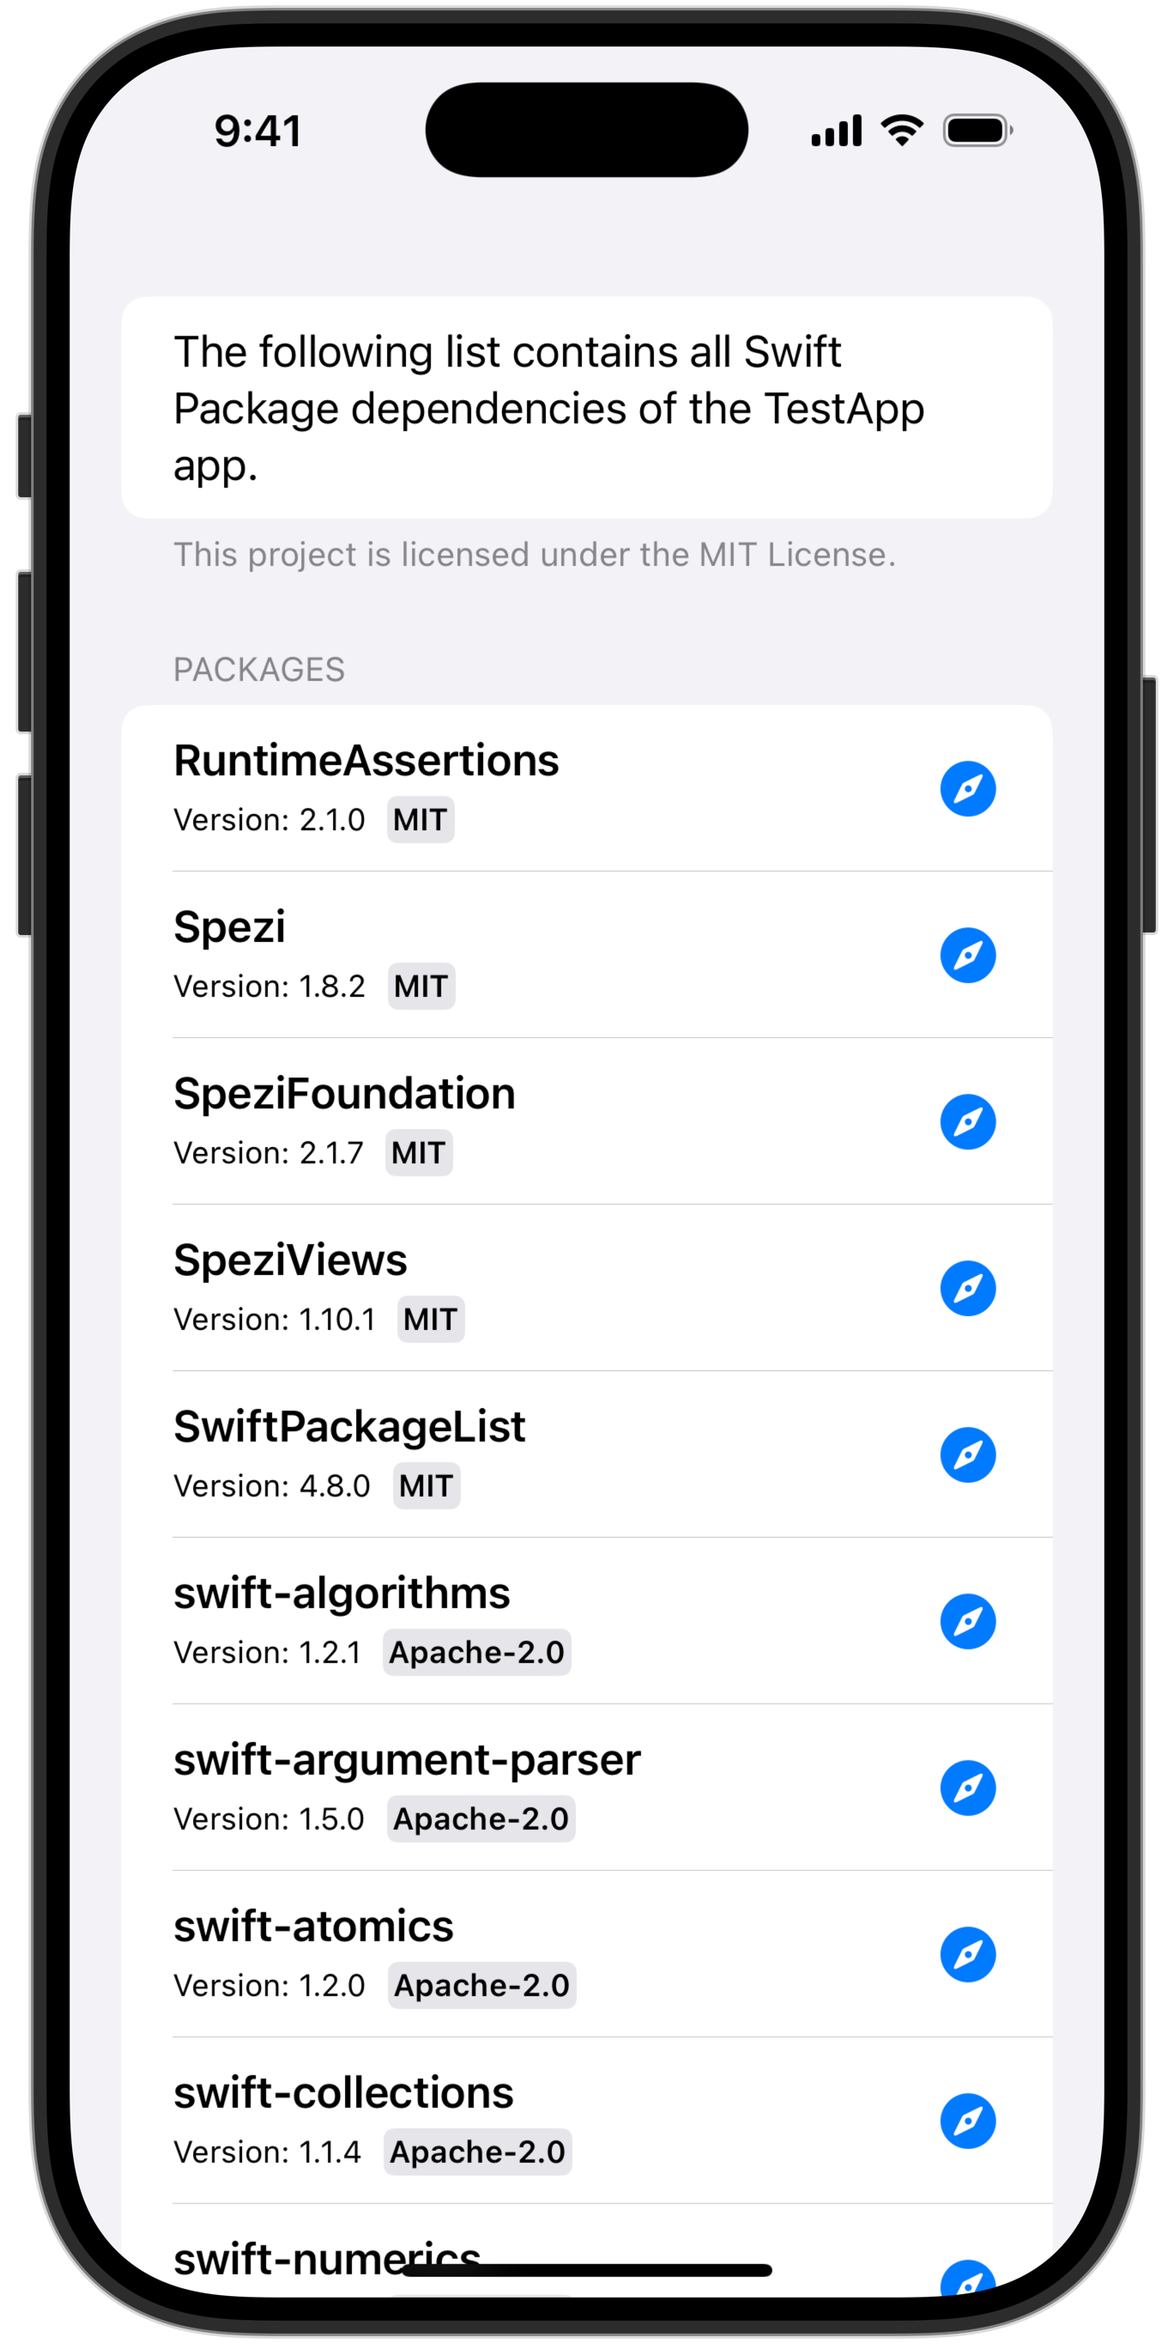
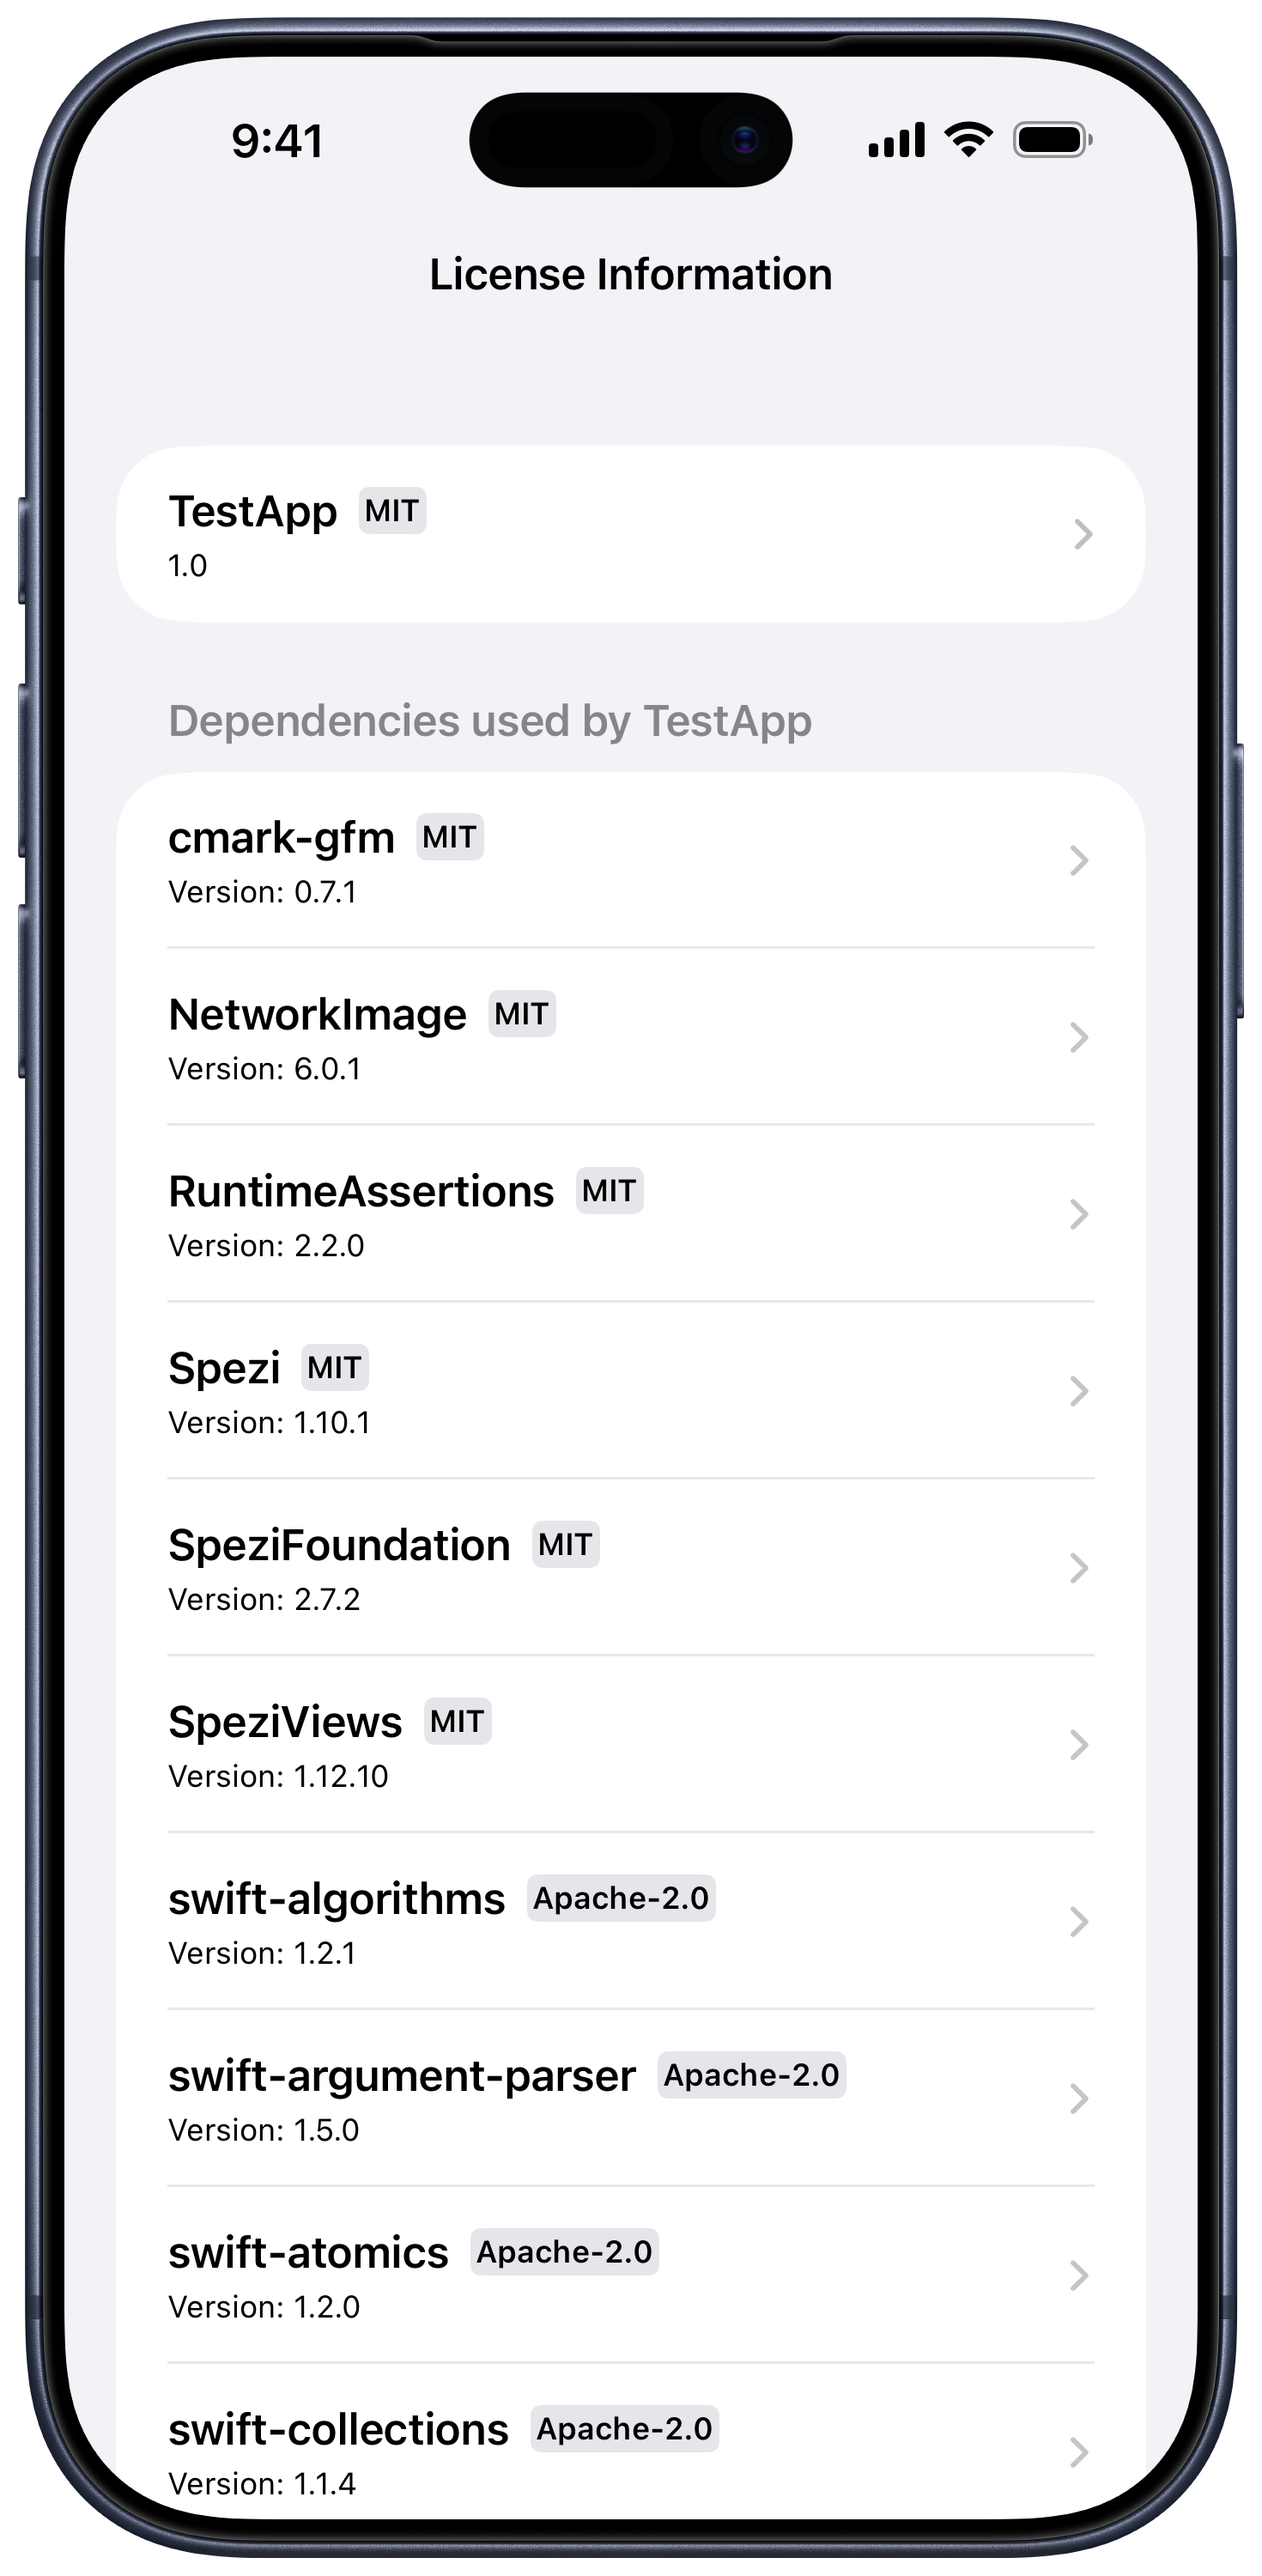
x

diff --git a/Sources/SpeziLicense/Views/PackageCell.swift b/Sources/SpeziLicense/Views/PackageCell.swift
@@ -12,7 +12,7 @@ import SwiftUI
 
 
 struct PackageCell: View {
-    struct Config {
+    struct Config: Hashable {
         let name: String
         let versionString: String?
         let url: URL?
@@ -23,6 +23,9 @@ struct PackageCell: View {
     private let config: Config
     
     var body: some View {
+        // - if we have the package's license text: the cell is a NavigationLink that shows the license text, and has a button to open the package's web site
+        // - if we don't have the text: the cell is a button that directly opens the web site
+        // - if we have neither the license text, nor the url: the cell is a button that does nothing.
         if let licenseText = config.licenseText {
             NavigationLink {
                 licenseView(licenseText)
@@ -30,12 +33,13 @@ struct PackageCell: View {
                 rowContent
             }
         } else {
-            HStack {
+            Button {
+                openPackageUrl()
+            } label: {
                 rowContent
-                // If the view is not embedded in a NavigationLink, we need to manually add a DisclosureIndicator to the trailing edge, to
-                // keep the layout in sync with what we have in the surrounding rows.
-                DisclosureIndicator()
+                    .contentShape(Rectangle())
             }
+            .buttonStyle(.plain)
         }
     }
     
@@ -55,25 +59,14 @@ struct PackageCell: View {
                 }
             }
             Spacer()
-            if let openPackageUrlButton {
-                openPackageUrlButton
-                    .buttonStyle(.plain)
-                    .foregroundStyle(.blue)
+            if config.licenseText == nil {
+                // If we don't have a licence text to push, the row view is not embedded in a NavigationLink,
+                // and we need to manually add the disclosure indicator to keep the layout in sync with the surrounding rows.
+                DisclosureIndicator()
             }
         }
     }
     
-    private var openPackageUrlButton: (some View)? {
-        if let url = config.url {
-            Button("Open in Browser", systemImage: "safari") {
-                UIApplication.shared.open(url)
-            }
-            .labelStyle(.iconOnly)
-            .imageScale(.large)
-        } else {
-            nil
-        }
-    }
     
     init(config: Config) {
         self.config = config
@@ -88,6 +81,7 @@ struct PackageCell: View {
             licenseText: package.license
         )
     }
+    
     
     private func licenseBadge(for licenseType: License) -> some View {
         Text(licenseType.spdxIdentifier)
@@ -105,11 +99,19 @@ struct PackageCell: View {
         }
         .navigationTitle(config.name)
         .toolbar {
-            if let openPackageUrlButton {
+            if config.url != nil {
                 ToolbarItem(placement: .primaryAction) {
-                    openPackageUrlButton
+                    Button("Open in Browser", systemImage: "safari") {
+                        openPackageUrl()
+                    }
                 }
             }
+        }
+    }
+    
+    private func openPackageUrl() {
+        if let url = config.url {
+            UIApplication.shared.open(url)
         }
     }
 }

diff --git a/Tests/UITests/TestApp/TestApp.swift b/Tests/UITests/TestApp/TestApp.swift
@@ -17,7 +17,7 @@ struct UITestsApp: App {
             NavigationStack {
                 ContributionsList(
                     projectLicense: .mit,
-                    projectUrl: URL(string: "https://github.com/StanfordSpezi/SpeziLicence")
+                    projectUrl: URL(string: "https://github.com/StanfordSpezi/SpeziLicense")
                 )
             }
         }

diff --git a/Sources/SpeziLicense/Views/ContributionsList.swift b/Sources/SpeziLicense/Views/ContributionsList.swift
@@ -36,7 +36,7 @@ public struct ContributionsList: View {
     
     public var body: some View {
         Form {
-            Section(LocalizedStringResource("App", bundle: .module)) {
+            Section {
                 PackageCell(config: appSectionRowConfig)
             }
             Section {

diff --git a/Sources/SpeziLicense/License.swift b/Sources/SpeziLicense/License.swift
@@ -10,7 +10,7 @@ import Foundation
 
 
 /// License struct to be passed to `ContributionsList`
-public struct License: Sendable {
+public struct License: Hashable, Sendable {
     /// The full name of the License
     public let name: String
     /// The standardized SPDX-License-Identifier
